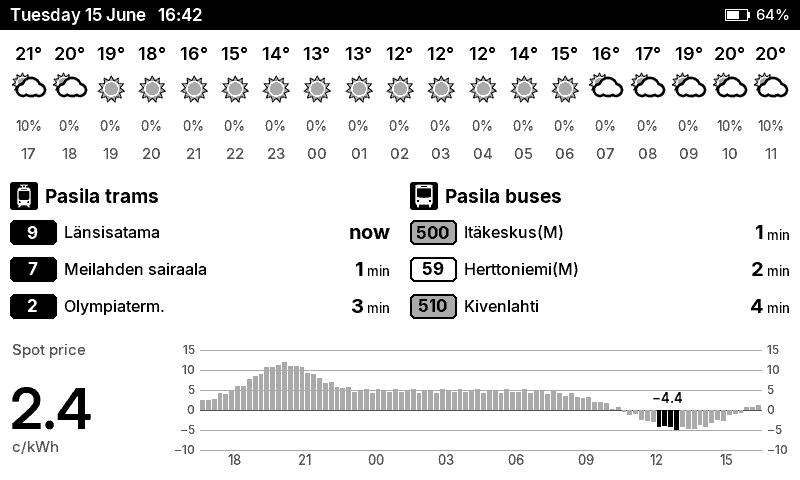
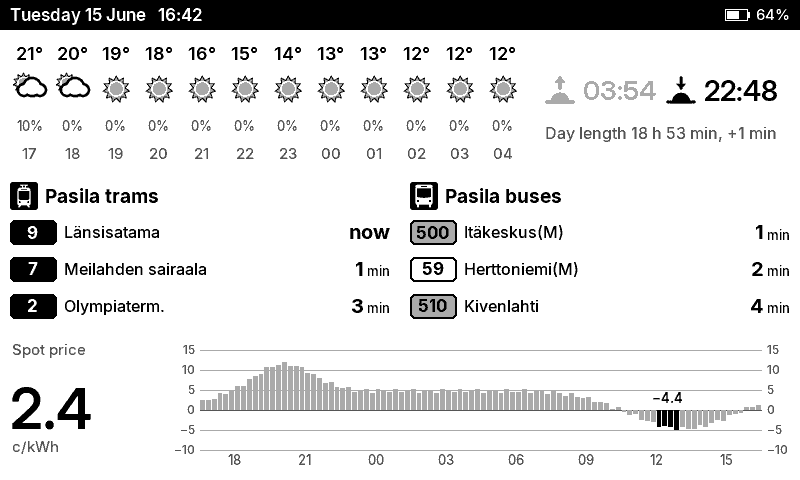
GL-5.2: document the sunrise and sunset widget
The README, its second screenshot (now with the widget), the example
config's widget list and second screen, the notes, and THIRD_PARTY.md for
the FMI times the tests hold. The render test's scene carries the sun,
since the example's second screen now shows it.

diff --git a/glance-server/tools/make_screenshot.py b/glance-server/tools/make_screenshot.py
@@ -1,6 +1,6 @@
 """Render the README screenshots from sample data: a winter weekday morning
 on the example's first screen, and a summer afternoon on its second, with
-the spot prices.
+the spot prices and the sunrise and sunset at the example's location.
 
     mise run screenshot        (writes ../docs/screenshot.png and screenshot-summer.png)
 
@@ -21,7 +21,7 @@ from zoneinfo import ZoneInfo
 
 sys.path.insert(0, str(Path(__file__).resolve().parent.parent))
 
-from glance import config, render  # noqa: E402
+from glance import config, render, sun  # noqa: E402
 from glance.sources import elering, fmi  # noqa: E402
 from glance.sources.hsl import Departure, StopDepartures  # noqa: E402
 
@@ -149,6 +149,7 @@ def main() -> None:
     cfg = replace(config.load(local_overrides=False), language="en")
     DOCS.mkdir(exist_ok=True)
     for out, scene, screen in ((OUT, winter_morning(), None), (OUT_SUMMER, summer_afternoon(), "departures")):
+        scene = replace(scene, sun=sun.day(cfg.lat, cfg.lon, scene.now.date(), cfg.tz))
         render.render(cfg, scene, screen).save(out, optimize=True)
         print(f"wrote {out}")
 

diff --git a/glance-server/tests/test_glance.py b/glance-server/tests/test_glance.py
@@ -1160,6 +1160,7 @@ class RenderTest(unittest.TestCase):
             language="en",
             forecast=fmi.Forecast(self.now - timedelta(minutes=5), hours),
             stops={w: hsl.placeholder(n, i, self.now) for i, (w, n) in enumerate(zip(self.cfg.wanted(hsl.StopRequest), "ABC"))},
+            sun=sun.day(self.cfg.lat, self.cfg.lon, self.now.date(), HELSINKI),
         )
 
     def assert_panel_image(self, img):

diff --git a/glance-server/CLAUDE.md b/glance-server/CLAUDE.md
@@ -1,6 +1,6 @@
 # glance-server
 
-Python 3.13 and Pillow. Fetches weather, departures and spot prices, draws the screen, serves it; deployed to the Pi as a systemd user service. The architecture and the rules are in the root `CLAUDE.md`.
+Python 3.13 and Pillow. Fetches weather, departures and spot prices, calculates the sunrise and sunset, draws the screen, serves it; deployed to the Pi as a systemd user service. The architecture and the rules are in the root `CLAUDE.md`.
 
 ## Running
 
@@ -26,8 +26,9 @@ On the Pi: `journalctl --user-unit glance -f` for the log (`journalctl --user -u
 - `glance/schedule.py`: wake times, the moment an image is drawn for, images drawn ahead (`Prerendered`) and shared (`Recent`).
 - `glance/config.py`: `config.toml` and `config.local.toml`, checked at load. It names no source: each source reads and checks its own section (`parse_settings` in its module), held together as `SourceSettings` (`sources/__init__.py`), one field per source as in `Sources`. `glance/checks.py` has the range check both use.
 - `glance/layout.py`, `glance/decks.py`, `glance/widgets/`: screens, decks, widget types.
-- `glance/render.py`, `glance/draw.py`, `glance/scene.py`, `glance/i18n.py`: drawing. `draw.py` imports nothing of ours, so widgets can use it without import cycles; it also holds the pen small icons are drawn with (`Pen`). `i18n.py` holds the formats for dates, times, ages and percentages; words belong to whoever shows them, each part keeping its own `WORDS` in English and Finnish (a widget, a source, the status bar).
+- `glance/render.py`, `glance/draw.py`, `glance/scene.py`, `glance/i18n.py`: drawing. `draw.py` imports nothing of ours, so widgets can use it without import cycles; it also holds the pen small icons are drawn with (`Pen`). `i18n.py` holds the formats for dates, times, ages, durations and percentages; words belong to whoever shows them, each part keeping its own `WORDS` in English and Finnish (a widget, a source, the status bar).
 - `glance/battery.py`: the battery level.
+- `glance/sun.py`: sunrise, sunset and the day's length, calculated rather than fetched (below, under Data). It imports nothing of ours.
 - `deploy/`, `tools/` (icons, screenshot), `tests/`.
 
 ## Data
@@ -47,6 +48,8 @@ On the Pi: `journalctl --user-unit glance -f` for the log (`journalctl --user -u
 **Elering** (`sources/elering.py`): Nord Pool's day-ahead prices from Elering's open dashboard API (`https://dashboard.elering.ee/api/nps/price?start=…&end=…`, no key; the request carries only dates). The answer has the Baltic areas and Finland, in €/MWh without tax, one per quarter hour (the market's step since October 2025), each with its start in Unix seconds; only Finland's (`fi`) are kept. Fetched from local midnight to the end of tomorrow: tomorrow's prices are published around 14 Finnish time. Refreshed hourly by the refresher thread, and after 2 minutes instead when a fetch failed or the prices held don't cover now (at start, at once). Cached in `cache/spot_prices.json`. Prices don't change once published, so the status bar warns only when there is no price for now ("Spot price unavailable"), not when a fetch is old. Elering states no licence for the data (`THIRD_PARTY.md`).
 
 FMI and Digitransit were verified against the live APIs, and `tests/data/` has a real answer from each. Elering was verified live on the Mac (a quarter's price matched Elering's own and Pörssisähkö.net's); its tests use made-up answers in its shape.
+
+**Sun** (`sun.py`): calculated from `[location]` and the local date with NOAA's solar formulas, the sun's upper edge at −0.833° (after refraction), as FMI's own times use; nothing is fetched, so nothing can be old or missing. Within 7 s of FMI's published times for Helsinki, Rovaniemi and Utsjoki at the winter solstice (and Helsinki's summer one), on the days the clocks change and at the edges of Utsjoki's polar night, and within 23 s on the last night of its midnight sun (`tests/test_sun.py`, FMI's times copied by hand). A day's sunrise is the one before its solar noon and its sunset the one after, so in the far north in summer the sunset can fall after midnight; whether the sun sets at all is decided by where it is at the solar midnights before and after noon, which is what puts a polar spell's first and last days where FMI has them. A polar spell's end is searched for up to 200 days ahead. `scene()` asks for today's on every drawing, and the last 8 days asked for are cached, so a polar day's search (the slowest case) runs once a day. On the Mac a day takes 0.07 ms, a polar day 0.6 ms; the Pi draws about 25 times slower, and it hasn't been timed there. It answers for every latitude, longitude and time zone the config accepts (tested from pole to pole).
 
 **Reading an answer** (`upstream.py`): with a deadline for reading the whole answer, headers included (Digitransit and Elering 10 s, FMI 20 s; urllib's own timeout only limits each read, so every read from the connection waits at most what is left of the deadline; connecting, with its TLS handshake, gets what is left once per address tried, and the name lookup is not limited), in pieces up to a 2 MB limit, and with redirects refused (urllib would send the key on to the redirect's target).
 
@@ -80,10 +83,10 @@ FMI and Digitransit were verified against the live APIs, and `tests/data/` has a
 ## Screens, decks and widgets
 
 - A screen (`[screens.<name>] grid`) is a picture of widget names, like CSS `grid-template-areas`: words per line are columns, lines are rows, each name fills a rectangle, `.` is empty. Cells share the 800×450 px below the status bar equally (`Layout.rect`).
-- A widget (`[widgets.<name>]`) has a `type`, named for its look. The type knows its data provider, so the config never names one. The types are `fmi_weather_now`, `fmi_weather_hourly`, `hsl_stops` and `spot_prices`.
-- Each type is one module in `glance/widgets/` holding everything about it: `TYPE`, `SETTINGS`, `parse()`, what it asks a source for (`wants`, in that source's own type: `hsl.StopRequest`, `fmi.ForecastRequest`), its fill rule and `draw()`. `widgets/__init__.py` lists them by hand; adding a type is a module and a line there. Drawing every widget can use goes in `draw.py`, never in another widget's module. Pictures one widget draws stay in its module (HSL's mode pictograms in `hsl_stops.py`, the wind arrow in `fmi_weather_now.py`); pictures a family of widgets shares get a module named for them (`fmi_symbols.py`, for the two FMI weather widgets). A widget never fetches: its data comes from a source in `glance/sources/` through the scene, and a new provider is a new module there (`Periodic` if it is refreshed on an interval), a field in `Sources` (and in its `periodic` list) with a `warning()` for the status bar, and a field in `Scene` with its line in `scene()`; with settings of its own, `parse_settings()` and a field in `SourceSettings`. A source learns what to fetch from what the widgets on the screens want (`Config.wanted`); one no widget on a screen asks for fetches nothing and gives the status bar no warning.
+- A widget (`[widgets.<name>]`) has a `type`, named for its look. The type knows its data provider, so the config never names one. The types are `fmi_weather_now`, `fmi_weather_hourly`, `hsl_stops`, `spot_prices` and `sunrise_sunset`.
+- Each type is one module in `glance/widgets/` holding everything about it: `TYPE`, `SETTINGS`, `parse()`, what it asks a source for (`wants`, in that source's own type: `hsl.StopRequest`, `fmi.ForecastRequest`), its fill rule and `draw()`. `widgets/__init__.py` lists them by hand; adding a type is a module and a line there. Drawing every widget can use goes in `draw.py`, never in another widget's module. Pictures one widget draws stay in its module (HSL's mode pictograms in `hsl_stops.py`, the wind arrow in `fmi_weather_now.py`); pictures a family of widgets shares get a module named for them (`fmi_symbols.py`, for the two FMI weather widgets). A widget never fetches: its data comes from a source in `glance/sources/` through the scene (or, if it is calculated rather than fetched, like the sun, from a module below the sources, through its own field in the scene, and the widget's `wants` is `None`), and a new provider is a new module there (`Periodic` if it is refreshed on an interval), a field in `Sources` (and in its `periodic` list) with a `warning()` for the status bar, and a field in `Scene` with its line in `scene()`; with settings of its own, `parse_settings()` and a field in `SourceSettings`. A source learns what to fetch from what the widgets on the screens want (`Config.wanted`); one no widget on a screen asks for fetches nothing and gives the status bar no warning.
 - Widgets fill their rectangle: as many hourly columns as fit at 41 px, as many departure rows as fit at 32 px. Current weather keeps its one design, at the top left of a bigger area.
-- Minimum sizes are in pixels, since the same cells are a different size in another grid (`MIN_SIZE`: current weather 245×140, hourly 139×130, stops 200×72, spot prices 530×120). They were chosen by drawing worst-case data. A grid that gives a widget less fails at load, saying what to change ("give it 3 columns"). `WidgetSizeTest` draws every type with worst-case data at several sizes and fails if anything lands outside its rectangle. On the panel, within a few pixels of them (250×141, 139×131 and 200×72: 5×5 cells of a 16×16 grid, 4×9 of 23×31, 1×4 of 4×25), each read well with real data; the worst-case data was drawn only in the tests.
+- Minimum sizes are in pixels, since the same cells are a different size in another grid (`MIN_SIZE`: current weather 245×140, hourly 139×130, stops 200×72, spot prices 530×120, sunrise and sunset 240×80). They were chosen by drawing worst-case data. A grid that gives a widget less fails at load, saying what to change ("give it 3 columns"). `WidgetSizeTest` draws every type with worst-case data at several sizes and fails if anything lands outside its rectangle. On the panel, within a few pixels of them (250×141, 139×131 and 200×72: 5×5 cells of a 16×16 grid, 4×9 of 23×31, 1×4 of 4×25), each read well with real data; the worst-case data was drawn only in the tests.
 - A deck (`[decks.<name>]`) is an ordered list of screens with a `start`; without decks, all screens form one. The schedule picks the deck. `decks.Selection` (in memory, shared by the device and the preview) keeps the showing screen across wakes, and starts over only when the schedule switches decks or the server restarts.
 - `?button=prev|next` step through the deck, wrapping around. On a deck of one the answer is `204` with `X-Glance-Sleep`. Answers carry `X-Glance-Deck-Size` (the device skips a pointless press) and `X-Glance-Screen` (for the preview).
 
@@ -96,6 +99,7 @@ Settled with the user on the real panel. The default is a 6×3 grid: current wea
 - **Hourly forecast:** temperature, icon, chance of precipitation (every hour, 0 % too, since a gap looked like an error; rounded to 10 %), hour.
 - **Stops:** HSL's mode pictograms and the stop name, then per departure a route badge (filled black for a tram, outlined for a bus, light grey with an outline for a trunk bus; dark grey was too close to black on the panel), the destination and the minutes (black for realtime, dark grey for timetable only).
 - **Spot prices:** "Pörssisähkö" and the price for the quarter hour now, big, in snt/kWh with VAT (25.5 %, `spot_prices.VAT`); beside it a light grey bar per quarter hour for the next 24 hours, from the quarter now, over light grey lines (the zero line dark grey) with their values on both sides, the scale ending on a line and reaching at least 10 snt so a calm day's small differences don't look like swings. The cheapest whole clock hour still to come is black, with its price above it. Hours not yet published are an outline at the end saying tomorrow's prices come around 14, or from 15 that they are late ("Huomisen hinnat myöhässä"), in fewer words when it is narrow ("N. klo 14"), or none; the cheapest hour's price is kept clear of it, or left out where the known part is too narrow for it. Without a price for now, the widget says so in its area, as current weather does. Chosen by the user from mockups (GL-4); the light grey lines and bars read well on the panel, by the user's judgement at the wall (2026-11-17).
+- **Sunrise and sunset:** a picture of the sun on the horizon with an arrow up or down, then the time, big, for each; below them in dark grey the day's length and its change since yesterday ("Päivän pituus 7 h 17 min, −5 min"). Times are rounded to the nearest minute; from that minute a time and its picture are light grey, so the dark one is the one still to come. On a polar night "Kaamos" / "Polar night", and on a polar day "Yötön yö" / "Midnight sun", with the date the sun next rises or sets; on the one night a year the sun stays up but sets the next, the sunrise is "–". The block is centred in its area. Whether the light grey times read well on the panel has not been looked at yet.
 - The device draws its offline mark over the right end of the bar (x 704–800): only the battery level belongs there.
 
 Design rules learned on the panel:
@@ -113,7 +117,7 @@ Icons and fonts:
 - Both tools render with macOS Quick Look (always at 304 px, since smaller thumbnails come out at the wrong scale; ImageMagick lost the outlines) and fetch a missing source from a pinned commit.
 - Fonts: bundled Inter 4.1.
 
-The README screenshots are drawn from sample data by `tools/make_screenshot.py`, in English with English stop names: a winter weekday morning at Pasila on the example's first screen, and a summer afternoon on its second, with spot prices below zero around midday.
+The README screenshots are drawn from sample data by `tools/make_screenshot.py`, in English with English stop names: a winter weekday morning at Pasila on the example's first screen, and a summer afternoon on its second, with spot prices below zero around midday and the sunrise and sunset at the example's location.
 
 ## Deploy
 
@@ -154,4 +158,5 @@ Built and tested, but not seen happening on the running system:
 - The battery curve's low end: `full_mv` shifts readings by a constant, which may not hold where the warning appears.
 - Running since 2026-11-16 but not seen happening yet: a renumbered stop keeping its old id until the new one is found, and a widget that can't be drawn left empty (each logs a warning or an error when it happens); the parsers leaving out values they can't draw, and a departures fetch still running after a request stopped waiting for it (neither logs anything).
 - The deploy's one-time setup check and its linger warning: trying them means undoing the Pi's setup.
+- The sunrise and sunset widget: not yet on the panel or the Pi.
 - Spot prices, running on the Pi since 2026-11-17, with the first fetch from Elering seen there. Not seen yet: tomorrow's prices appearing in the afternoon, and a failed fetch (it logs a warning).

diff --git a/README.md b/README.md
@@ -1,8 +1,8 @@
 # Glance
 
 A wall-mounted e-paper dashboard for Helsinki: weather from the Finnish
-Meteorological Institute (FMI), live public transport departures from HSL and
-Finland's electricity spot prices, on a battery-powered [Seeed reTerminal E1001](https://wiki.seeedstudio.com/reterminal_e10xx_main_page/)
+Meteorological Institute (FMI), live public transport departures from HSL,
+Finland's electricity spot prices and today's sunrise and sunset, on a battery-powered [Seeed reTerminal E1001](https://wiki.seeedstudio.com/reterminal_e10xx_main_page/)
 (7.5", 800×480, 4 greys).
 
 ![The dashboard: current weather, an hourly forecast and departures from three stops](docs/screenshot.png)
@@ -11,16 +11,17 @@ Finland's electricity spot prices, on a battery-powered [Seeed reTerminal E1001]
 at Pasila (`mise run screenshot`). On the panel it looks exactly like this.
 The interface is also available in Finnish.*
 
-![A second screen: an hourly forecast, departures from two stops, and the electricity spot price now and for the next 24 hours](docs/screenshot-summer.png)
+![A second screen: an hourly forecast, today's sunrise and sunset, departures from two stops, and the electricity spot price now and for the next 24 hours](docs/screenshot-summer.png)
 
 *A second screen on a summer afternoon, from sample data too: a sunny, windy
-day, when the spot price falls below zero around midday.*
+day, when the spot price falls below zero around midday. The sunrise has
+passed, so it is grey.*
 
 ## How it works
 
 A small server (a Raspberry Pi will do) fetches the weather, departures and
-spot prices, draws the whole screen as an image and serves it on the home
-network. The device only wakes up, downloads that image, shows it and goes
+spot prices, works out the sunrise and sunset, draws the whole screen as an
+image and serves it on the home network. The device only wakes up, downloads that image, shows it and goes
 back to deep sleep, so its firmware stays simple and its battery lasts.
 
 ```mermaid
@@ -49,6 +50,10 @@ flowchart LR
   in black with its price. Tomorrow's prices are published around 14 Finnish
   time; until then the hours still unknown are marked. Nord Pool's day-ahead
   prices, from Elering's open data (no key needed).
+- **Sun:** today's sunrise and sunset at your location, and the day's length
+  with how it changed since yesterday. A time already past turns grey. In
+  Lapland's polar night or midnight sun, it says so and when the sun next
+  rises or sets. Calculated on the server, so nothing is fetched.
 - **Battery-aware schedule:** the server tells the device when to wake next
   (e.g. every minute on weekday mornings, every 5 minutes otherwise, every
   15 at night), aimed just after the minute changes so the clock is right.
@@ -95,7 +100,7 @@ language = "en"     # the default is Finnish ("fi")
 [digitransit]
 key = "your-digitransit-key"
 
-[location]          # for the weather
+[location]          # for the weather and the sunrise and sunset
 lat = 60.1987
 lon = 24.9327
 

diff --git a/CLAUDE.md b/CLAUDE.md
@@ -1,6 +1,6 @@
 # Glance
 
-A wall-mounted e-paper dashboard for a home in Helsinki: FMI weather, HSL public transport departures and Finland's electricity spot prices. A small server draws the whole 800×480 screen as an image; the display wakes, downloads it, shows it and goes back to sleep.
+A wall-mounted e-paper dashboard for a home in Helsinki: FMI weather, HSL public transport departures, Finland's electricity spot prices and today's sunrise and sunset. A small server draws the whole 800×480 screen as an image; the display wakes, downloads it, shows it and goes back to sleep.
 
 This file is the overview and the rules. Each folder has its own `CLAUDE.md` with that part's details, measurements and reasons (Claude Code loads it when working in the folder): `glance-server/CLAUDE.md` and `glance-device/CLAUDE.md`. This installation's own details (hostnames, addresses, stops, schedule, times of day) are in `CLAUDE.local.md` (git-ignored).
 

diff --git a/THIRD_PARTY.md b/THIRD_PARTY.md
@@ -18,7 +18,9 @@ responses (`glance-server/tests/data/`, see the README there):
 
 - **Weather:** Finnish Meteorological Institute open data, licensed under
   [CC BY 4.0](https://creativecommons.org/licenses/by/4.0/). Source: Finnish
-  Meteorological Institute (Ilmatieteen laitos).
+  Meteorological Institute (Ilmatieteen laitos). The tests also hold a few
+  sunrise and sunset times FMI publishes (`glance-server/tests/test_sun.py`),
+  as expected values for the server's own calculation.
 - **Public transport:** Helsinki Region Transport (HSL) open data via the
   Digitransit API, licensed under
   [CC BY 4.0](https://creativecommons.org/licenses/by/4.0/). Source: HSL.
